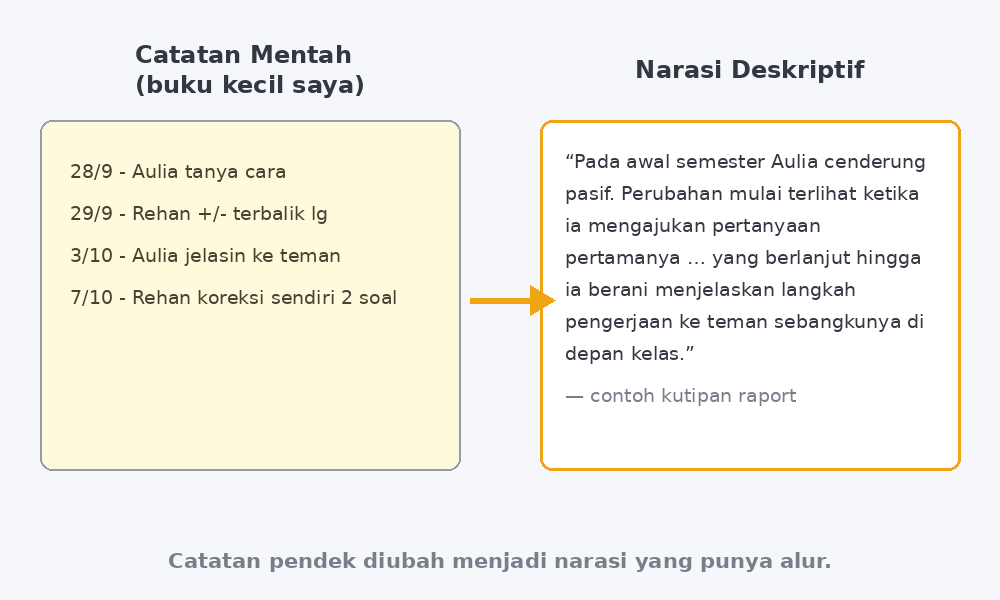
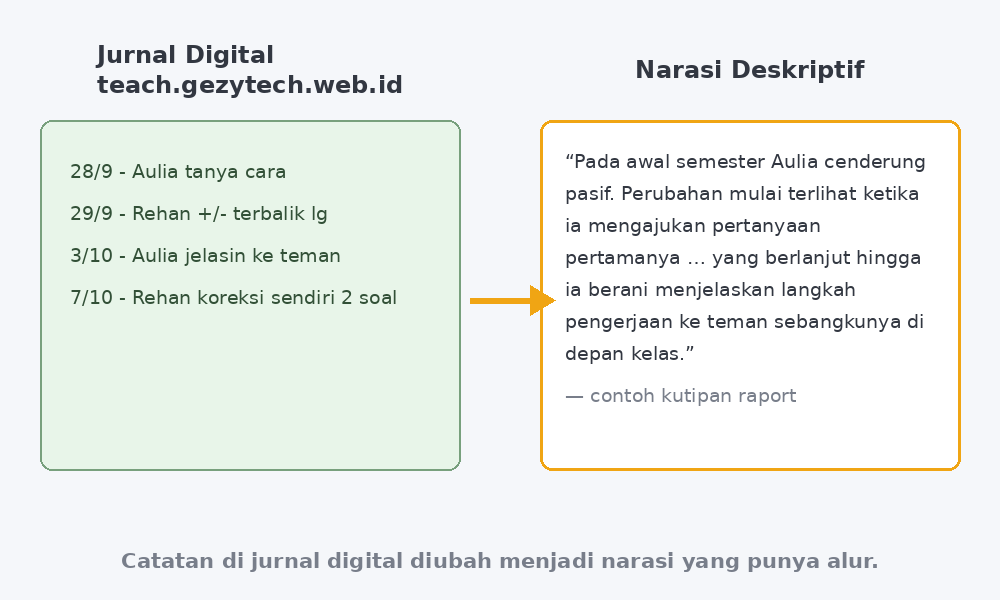
Revisi artikel raport: buku kecil -> jurnal mengajar digital (teach.gezytech.web.id), sesuai kenyataan

Changed region(s): [[0.062, 0.06, 0.434, 0.21], [0.124, 0.9, 0.868, 0.96], [0.062, 0.78, 0.434, 0.81]]

diff --git a/content/posts/ai-raport-dari-catatan-observasi/index.md b/content/posts/ai-raport-dari-catatan-observasi/index.md
@@ -1,5 +1,5 @@
 ---
-title: "Dari Catatan Berantakan di Buku Kecil ke Narasi Raport: AI sebagai Asisten Kearsipan Guru"
+title: "Dari Jurnal Mengajar Digital ke Narasi Raport: AI sebagai Asisten Kearsipan Guru"
 date: 2026-10-23T20:30:00+07:00
 draft: false
 authors: ["Gunanto"]
@@ -13,11 +13,11 @@ math:
   enable: true
 ---
 
-Kalau Bapak/Ibu guru kelas atau wali murid, pasti kenal momen ini: sudah malam, meja penuh cangkir kopi yang sudah dingin, dan buku kecil catatan observasi terbuka di depan. Di dalamnya ada tulisan tangan saya sendiri yang setengahnya tidak bisa saya baca. "Aulia tanya cara" — tanya cara apa? Kapan tanggalnya? Soal nomor berapa? Catatan yang bulan September terasa jelas itu, di bulan Desember, berubah menjadi teka-teki yang harus saya pecahkan sendiri sebelum bisa menulis satu paragraf narasi raport.
+Kalau Bapak/Ibu guru kelas atau wali murid, pasti kenal momen ini: sudah malam, meja penuh cangkir kopi yang sudah dingin, dan catatan observasi terbuka di depan. Entinya pendek-pendek, steno ala guru yang buru-buru: "Aulia tanya cara" — tanya cara apa? Kapan tanggalnya? Soal nomor berapa? Catatan yang bulan September terasa jelas itu, di bulan Desember, berubah menjadi teka-teki yang harus saya pecahkan sendiri sebelum bisa menulis satu paragraf narasi raport.
 
 <!--more-->
 
-Tahun ini jumlah catatan itu lebih banyak dari biasanya. Sejak saya mulai konsisten melakukan observasi informal — sekadar mencatat hal kecil yang terjadi di kelas: siapa yang akhirnya berani bertanya, siapa yang miskonsepsinya berulang, siapa yang membantu temannya tanpa disuruh — buku kecil saya justru penuh. Itu kabar baik untuk penilaian, tapi kabar buruk untuk waktu. Karena bagusnya catatan itu baru "jadi" kalau sudah diubah menjadi narasi deskriptif yang bisa dibaca orang tua murid.
+Tahun ini jumlah catatan itu lebih banyak dari biasanya. Sejak saya mulai konsisten melakukan observasi informal — sekadar mencatat hal kecil yang terjadi di kelas — entri singkat tanggal, murid, dan kejadiannya, langsung dari ponsel lewat aplikasi jurnal mengajar berbasis web yang saya buat sendiri: siapa yang akhirnya berani bertanya, siapa yang miskonsepsinya berulang, siapa yang membantu temannya tanpa disuruh — entri di jurnal digital saya makin banyak. Itu kabar baik untuk penilaian, tapi kabar buruk untuk waktu. Karena bagusnya catatan itu baru "jadi" kalau sudah diubah menjadi narasi deskriptif yang bisa dibaca orang tua murid.
 
 Maka semester ini saya mencoba sesuatu yang setahun lalu mungkin akan saya tolak: saya minta bantuan AI untuk menyusun draf narasi raport dari catatan observasi saya. Dan yang mengejutkan saya bukan hasilnya — tapi betapa banyak hal yang harus saya atur sendiri supaya hasilnya layak dipakai.
 
@@ -35,13 +35,13 @@ Tiga catatan pendek. Tapi ketika saya menatapnya malam itu, yang saya butuhkan b
 
 ![Alur dari catatan mentah ke narasi deskriptif](diagram-alur.png)
 
-*Catatan pendek di buku kecil harus diubah menjadi narasi yang punya alur — di sinilah sebagian besar waktu saya habis setiap akhir semester.*
+*Catatan pendek di jurnal mengajar harus diubah menjadi narasi yang punya alur — di sinilah sebagian besar waktu saya habis setiap akhir semester.*
 
 ## Aturan Main yang Saya Buat untuk Diri Sendiri
 
 Karena penasaran sekaligus waswas, saya menetapkan aturan main sebelum mulai. Bukan aturan untuk AI-nya, sebenarnya — aturan untuk saya.
 
-**Pertama, AI hanya menerima catatan saya, apa adanya.** Saya ketik ulang isi buku kecil itu — termasuk singkatan-singkatan aneh seperti "RHN msh trblk +/-" (Rehan masih terbalik tanda negatif) — lalu saya minta AI menyusunnya secara kronologis dan menandai bagian mana yang merujuk ke catatan mana. Tidak ada yang ditambahkan dari luar. Kalau catatannya cuma tiga baris, drafnya harus bertumpu pada tiga baris itu.
+**Pertama, AI hanya menerima catatan saya, apa adanya.** Saya salin entri dari jurnal digital saya apa adanya — termasuk singkatan-singkatan aneh seperti "RHN msh trblk +/-" (Rehan masih terbalik tanda negatif) — lalu saya minta AI menyusunnya secara kronologis dan menandai bagian mana yang merujuk ke catatan mana. Tidak ada yang ditambahkan dari luar. Kalau catatannya cuma tiga baris, drafnya harus bertumpu pada tiga baris itu.
 
 **Kedua, AI tidak boleh mengarang kata sifat.** Ini bagian paling sensitif. Narasi raport yang baik itu spesifik: "mulai berani mengajukan pertanyaan saat pembahasan soal" jauh lebih berharga daripada "menunjukkan perkembangan yang baik". Kata-kata mulus tapi kosong itu jebakan terbesar — dan AI, kalau tidak dikunci, sangat senang memakainya. Saya jadi punya kebiasaan baru: setiap kata sifat dalam draf, saya cari catatan pendukungnya. Tidak ada catatannya? Kalimat itu hapus.
 
@@ -57,7 +57,7 @@ Tidak ada satu kalimat pun di situ yang tidak punya jejak catatan. Tapi ada sesu
 
 Ada kekhawatiran yang wajar saya dengar dari rekan guru: "Nanti guru jadi malas menilai sendiri, kan tinggal titip ke AI?" Kekhawatiran yang sama yang dulu membuat saya ragu. Tapi pengalaman satu semester ini justru menunjukkan arah yang sebaliknya — dengan syarat AI diposisikan sebagai asisten pengolah, bukan penilai.
 
-Karena AI tidak pernah berada di kelas saya. AI tidak melihat wajah Rehan ketika ia menyadari sendiri bahwa tanda minusnya terbalik, lalu mengoreksi dua soalnya tanpa saya suruh. Catatan "Rehan koreksi sendiri 2 soal" di buku kecil itu adalah hasil pengamatan mata saya — dan itulah bahan baku yang paling mahal dalam seluruh proses ini. AI hanya membantu mengubah bahan baku itu menjadi bentuk yang bisa dibaca. Tanpa catatan yang jujur dan spesifik, AI hanya akan menghasilkan narasi kosong yang terdengar bagus — dan orang tua bisa mencium narasi kosong dari jarak jauh.
+Karena AI tidak pernah berada di kelas saya. AI tidak melihat wajah Rehan ketika ia menyadari sendiri bahwa tanda minusnya terbalik, lalu mengoreksi dua soalnya tanpa saya suruh. Entri "Rehan koreksi sendiri 2 soal" di jurnal mengajar itu adalah hasil pengamatan mata saya — dan itulah bahan baku yang paling mahal dalam seluruh proses ini. AI hanya membantu mengubah bahan baku itu menjadi bentuk yang bisa dibaca. Tanpa catatan yang jujur dan spesifik, AI hanya akan menghasilkan narasi kosong yang terdengar bagus — dan orang tua bisa mencium narasi kosong dari jarak jauh.
 
 Justru karena rutin minta bantuan menyusun, saya jadi lebih disiplin mencatat. Kalau tahu catatan itu nanti benar-benar dipakai, saya menulisnya lebih detail di kelas. Jadi ada siklus yang sehat di sini: alat membuat catatan lebih bernilai, catatan yang bernilai membuat pengamatan lebih tekun.
 
@@ -67,4 +67,4 @@ Kalau direcap, bantuan AI dalam pekerjaan raport saya bekerja di tiga titik: men
 
 Bapak/Ibu yang sedang mempertimbangkan hal serupa, saran saya sederhana: mulai dari catatan yang sudah ada, bukan dari AI-nya. Coba ketik ulang catatan observasi satu murid saja, minta bantuan menyusunnya, lalu bandingkan drafnya dengan catatan asli. Batas antara "membantu menyusun" dan "menggantikan penilaian" akan langsung terasa — dan selama garis itu tetap kita pegang, saya rasa alat ini aman untuk dipakai guru.
 
-Malam-malam koreksi raport masih akan tetap ada, tentu. Tapi tahun ini, minimal, buku kecil saya tidak lagi menjadi teka-teki yang harus dipecahkan sendirian.
+Malam-malam koreksi raport masih akan tetap ada, tentu. Tapi tahun ini, minimal, jurnal digital saya tidak lagi menjadi teka-teki yang harus dipecahkan sendirian — dan aplikasi kecil yang saya bangun untuk keperluan itu pun akhirnya punya pasangan kerjanya: membantu saya menutup semester, bukan hanya mencatatnya.
